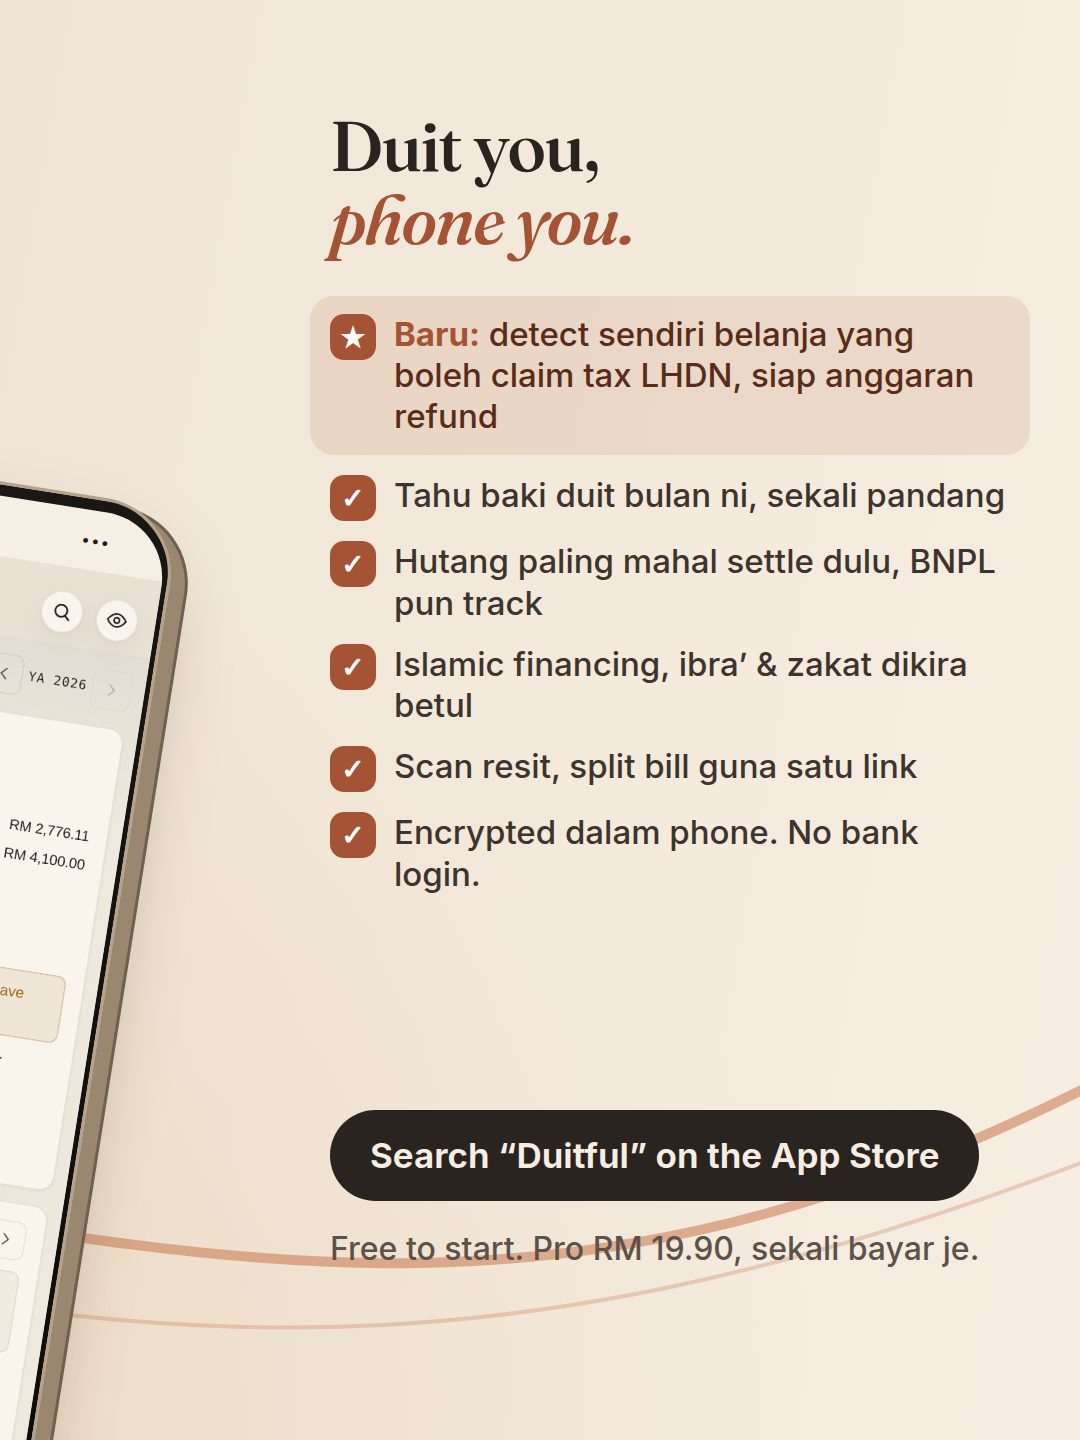
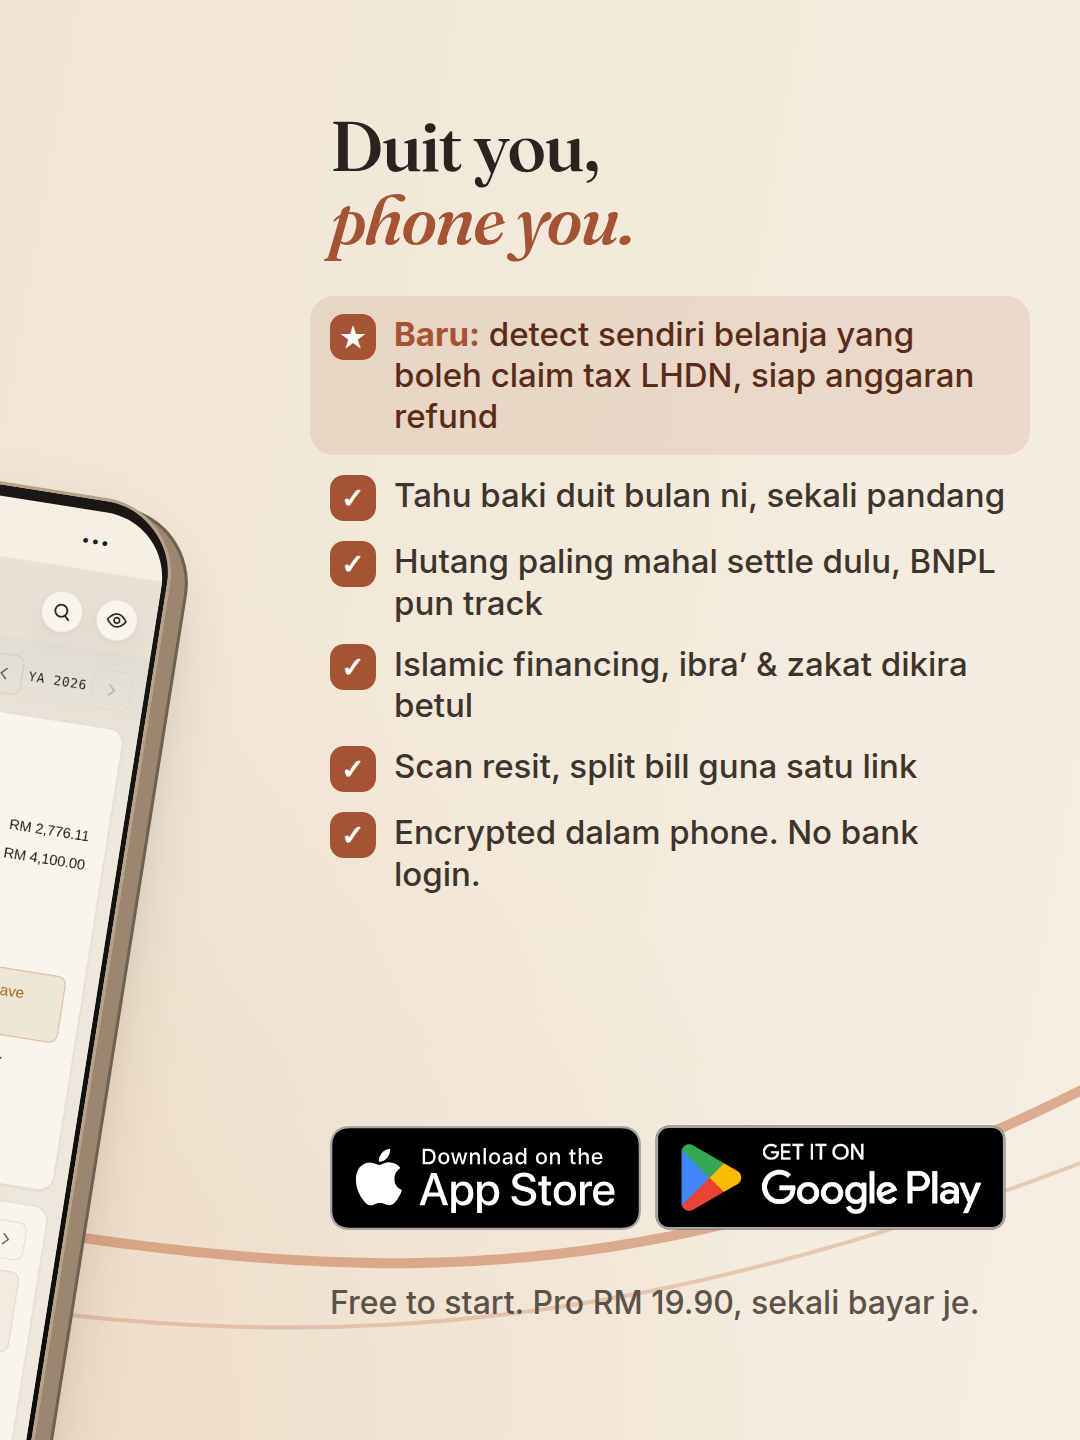
Instagram launch: official App Store + Google Play badges
Badges fetched from developer.apple.com and play.google.com, unmodified,
in marketing/badges with the rules for using them. Apple first, Google's
PNG scaled so its visible badge matches Apple's height. They replace the
text CTA on the third post and the reel's end card.

Claude-Session: https://claude.ai/code/session_01MxM2QQfV3Bj1xYaZMMnaMN

Changed region(s): [[0.3056, 0.75, 0.9472, 0.9375]]

diff --git a/marketing/badges/README.md b/marketing/badges/README.md
@@ -1,0 +1,10 @@
+# Store badges
+
+Official artwork, unmodified. Do not redraw, recolour, crop or animate them.
+
+| File | Source | Rules |
+|---|---|---|
+| `app-store-download-black.svg` | <https://developer.apple.com/assets/elements/badges/download-on-the-app-store.svg> | [App Store marketing guidelines](https://developer.apple.com/app-store/marketing/guidelines/): use the official badge, keep clear space of ¼ its height, never smaller than 40 px tall on screen, and put it **first** when shown with other stores' badges. |
+| `google-play-get-it-on.png` | <https://play.google.com/intl/en_us/badges/static/images/badges/en_badge_web_generic.png> | [Google Play badge guidelines](https://partnermarketinghub.withgoogle.com/brands/google-play/visual-identity/badge-guidelines/): the PNG already includes its clear space (41 of 250 px). Show it at the same visible height as other badges. |
+
+Side by side, scale the Play PNG to `appleHeight × 250 / 168` with a negative margin of `appleHeight × 41 / 168`, so the two visible badges match (see `marketing/instagram/scripts/triptych.mjs`).
